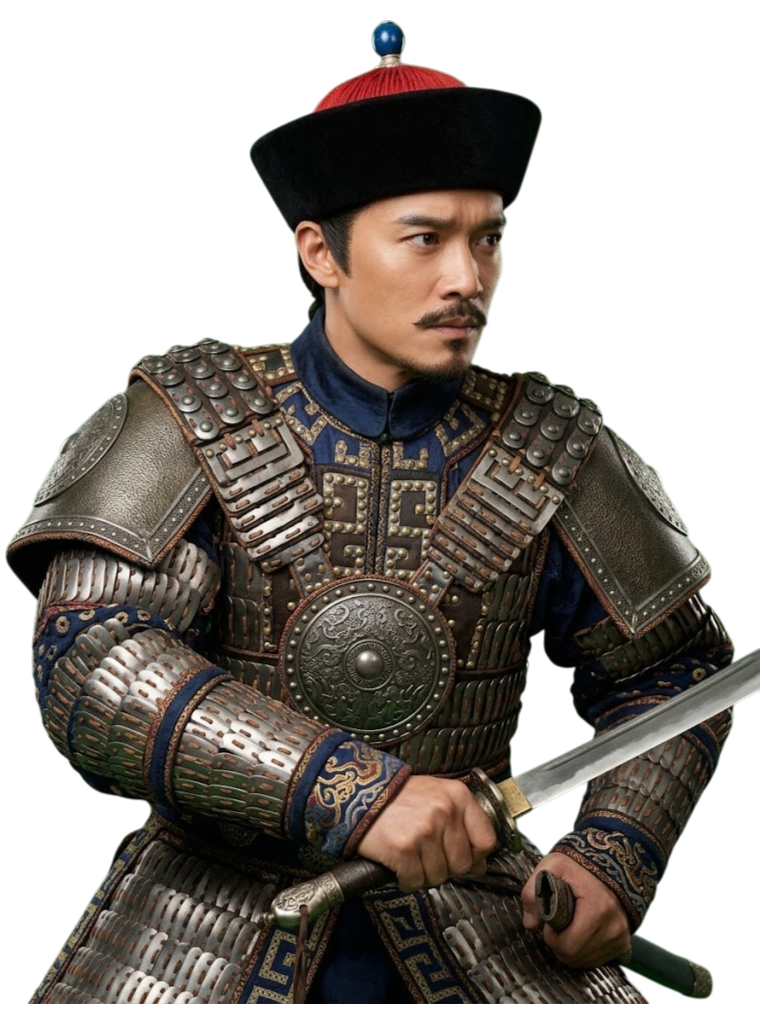
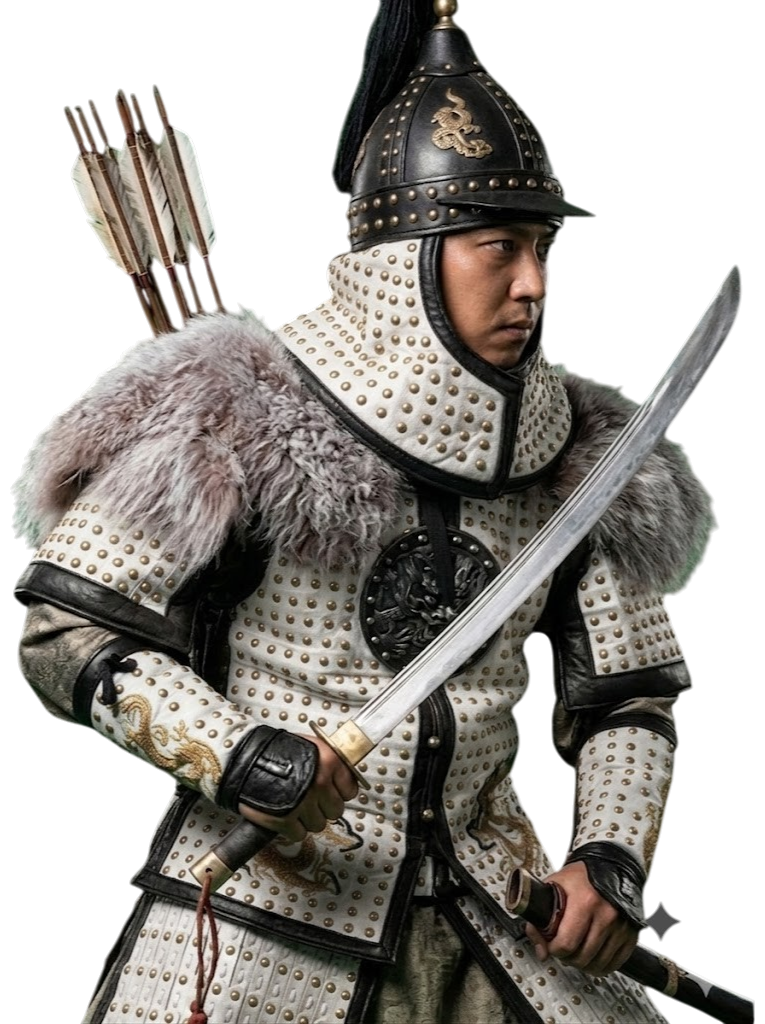
Auto Backup: 2026/6/22 02:53:54

diff --git a/src/data/FactionGenerals.ts b/src/data/FactionGenerals.ts
@@ -37,7 +37,7 @@ export interface FactionGeneral {
 export const FACTION_GENERALS: Readonly<Record<string, FactionGeneral>> = {
     qin: { generalId: 'qin_baiqi', generalName: '白起', portrait: '/assets/qin/qin_baiqi.png' },
     tang: { generalId: 'tang_lishimin', generalName: '李世民', portrait: '/assets/litang/tang_lishimin.png' },
-    wuzhou_d: { generalId: 'wuzhou_d_wangxiaojie', generalName: '王孝杰', portrait: '/assets/wuzhou/wuzhou_d_wangxiaojie.png' },
+    wuzhou_d: { generalId: 'wuzhou_d_wuzetian', generalName: '武则天', portrait: '/assets/wuzhou/wuzhou_d_wuzetian.png' },
         ming_d: { generalId: 'ming_d_yuqian', generalName: '于谦', portrait: '/assets/daming/ming_d_yuqian.png' },
     jinling: { generalId: 'jinling_tandaoji', generalName: '檀道济', portrait: '/assets/jiangnan/jinling_tandaoji.png' },
     guangzhou: { generalId: 'guangzhou_liuyin', generalName: '刘隐', portrait: '/assets/lingnan/guangzhou_liuyin.png' },
@@ -61,7 +61,7 @@ export const FACTION_GENERALS: Readonly<Record<string, FactionGeneral>> = {
     quanzhou: { generalId: 'quanzhou_liucongxiao', generalName: '留从效', portrait: '/assets/jiangnan/quanzhou_liucongxiao.png' },
     han_d: { generalId: 'han_d_hanxin', generalName: '韩信', portrait: '/assets/liuhan/han_d_hanxin.png' },
     wei: { generalId: 'wei_wuqi', generalName: '吴起', portrait: '/assets/xianqin/wei_wuqi.png' },
-    manzhou_d: { generalId: 'manzhou_d_duergan', generalName: '多尔衮', portrait: '/assets/dongbei/manzhou_d_duergan.png' },
+    manzhou_d: { generalId: 'manzhou_d_duergan', generalName: '多尔衮', portrait: '/assets/manqing/manzhou_d_duergan.png' },
     xinluo: { generalId: 'xinluo_jinyixin', generalName: '金庾信', portrait: '/assets/chaoxian/xinluo_jinyixin.png' },
     edo: { generalId: 'edo_dechuangjiakang', generalName: '德川家康', portrait: '/assets/riben/edo_dechuangjiakang.png' },
     seljuq: { generalId: 'seljuq_sangjiaer', generalName: '桑贾尔', portrait: '/assets/zhongya/seljuq_sangjiaer.png' },
@@ -760,7 +760,7 @@ export const FACTION_GENERALS: Readonly<Record<string, FactionGeneral>> = {
     qianzhou: { generalId: 'qianzhou_lisheng', generalName: '李晟', portrait: '/assets/zhongyuan/qianzhou_lisheng.png' },
     wuyue: { generalId: 'wuyue_qianliu', generalName: '钱镠', portrait: '/assets/jiangnan/wuyue_qianliu.png' },
 
-    song: { generalId: 'song_zhaokuangyin', generalName: '赵匡胤', portrait: '/assets/zhongyuan/song_zhaokuangyin.png' },
+    song: { generalId: 'song_zhaokuangyin', generalName: '赵匡胤', portrait: '/assets/zhaosong/song_zhaokuangyin.png' },
     chuzhou_d: { generalId: 'chuzhou_d_dugao', generalName: '杜杲', portrait: '/assets/jiangnan/chuzhou_d_dugao.png' },
     xiyuduhu: { generalId: 'xiyuduhu_banchao', generalName: '班超', portrait: '/assets/xiyu/xiyuduhu_banchao.png' },
 };